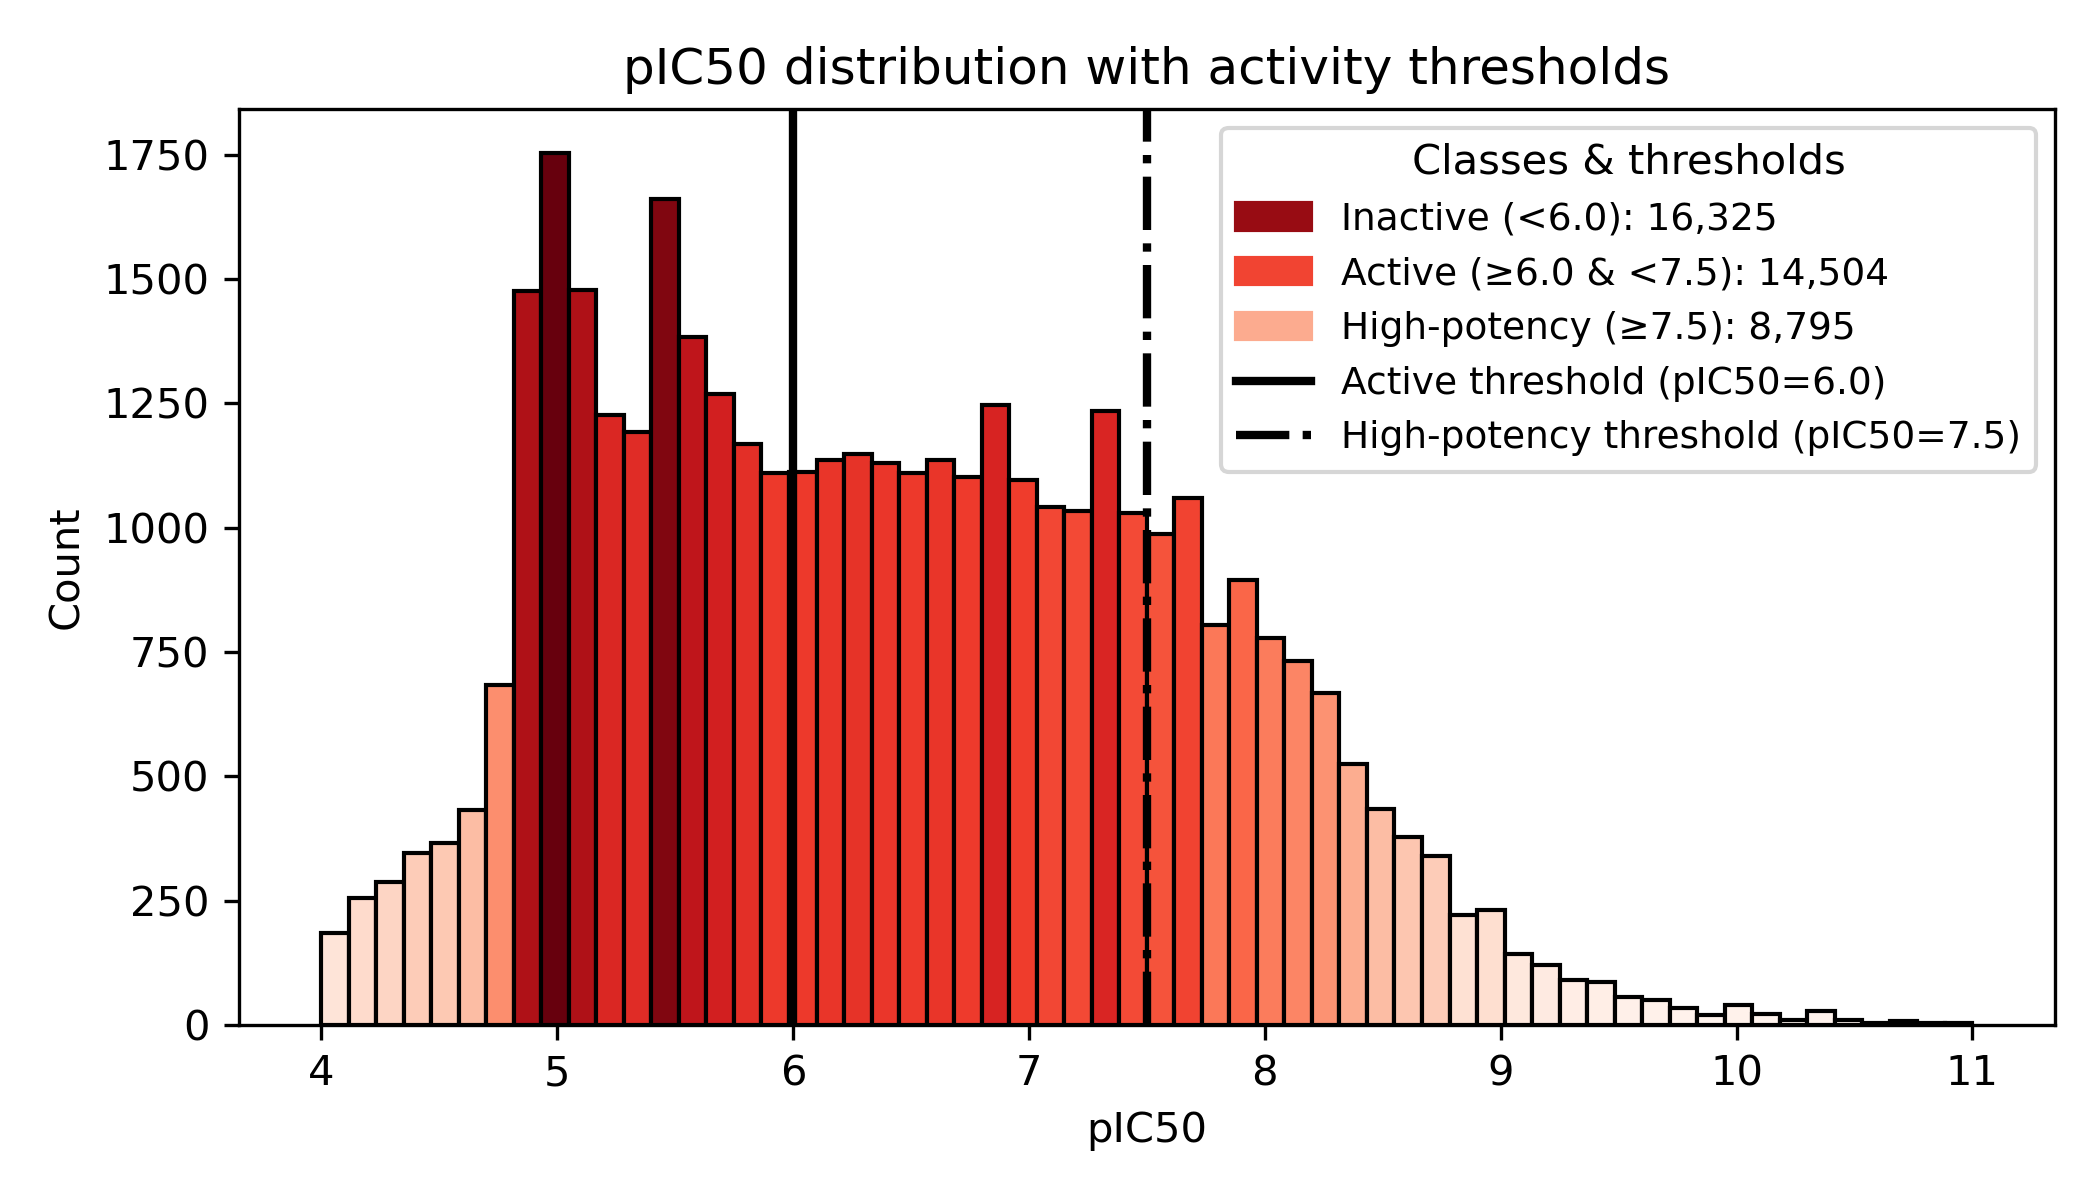
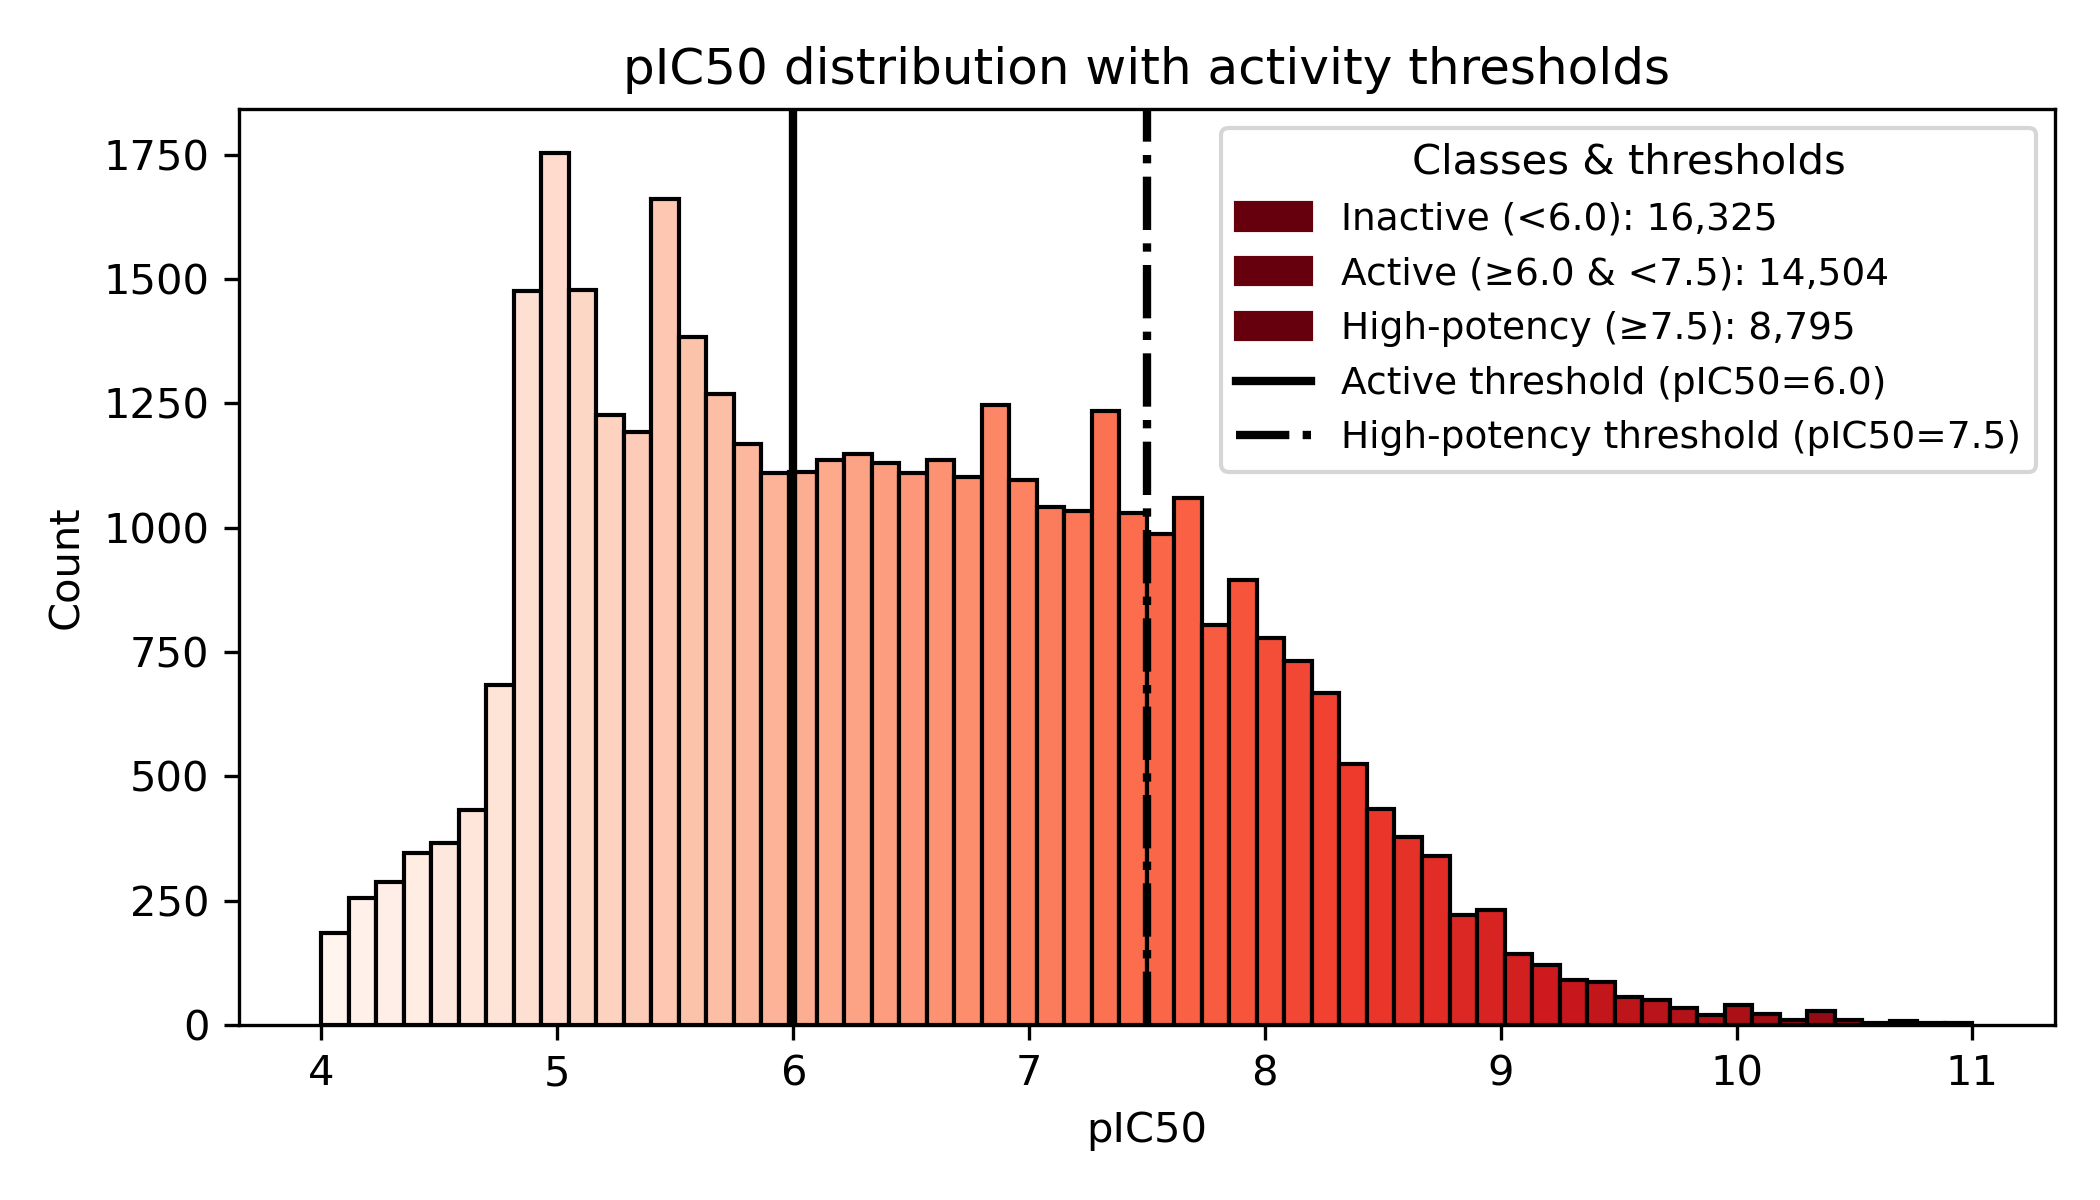
updating histograms,,, pic50 histogram, barplot

Changed region(s): [[0.1548, 0.1233, 0.8667, 0.8633], [0.5881, 0.1542, 0.65, 0.3083]]

diff --git a/p1_preprocessing/3 - Data visualizations before splits/pIC50_distribution_histogram/pic50_dist_hm.py b/p1_preprocessing/3 - Data visualizations before splits/pIC50_distribution_histogram/pic50_dist_hm.py
@@ -37,9 +37,14 @@ counts, bin_edges = np.histogram(df["pIC50"].dropna(), bins=bins)
 bin_centers = 0.5 * (bin_edges[:-1] + bin_edges[1:])
 
 # Colour Mapping
-norm = colors.Normalize(vmin=counts.min(), vmax=counts.max())
-cmap = cm.get_cmap("Reds")
-bar_colors = cmap(norm(counts))
+c_inactive = 'tab:blue'
+c_active   = 'tab:orange'
+c_high     = 'tab:green'
+
+bar_colors = np.where(
+    bin_centers < main_threshold, c_inactive,
+    np.where(bin_centers < upper_threshold, c_active, c_high)
+)
 
 # Plot
 fig, ax = plt.subplots(figsize=figsize)
@@ -51,11 +56,11 @@ lt_active = ax.axvline(main_threshold,  ls="-", lw=2.0, color="black")
 lt_high   = ax.axvline(upper_threshold, ls="-.", lw=2.0, color="black")
 
 # Legend Patches
-patch_inactive = patches.Patch(color=cmap(norm(counts.max() * 0.9)),
+patch_inactive = patches.Patch(color=c_inactive,
                                label=f"Inactive (<{main_threshold}): {inactive_count:,}")
-patch_active   = patches.Patch(color=cmap(norm(counts.max() * 0.6)),
+patch_active   = patches.Patch(color=c_active,
                                label=f"Active (≥{main_threshold} & <{upper_threshold}): {active_count:,}")
-patch_high     = patches.Patch(color=cmap(norm(counts.max() * 0.3)),
+patch_high     = patches.Patch(color=c_high,
                                label=f"High-potency (≥{upper_threshold}): {high_count:,}")
 
 # legend Lines

diff --git a/p1_preprocessing/4 - Data splitting/3 - splits_data_visualization/bar_plot_distributions/bar_plot_split_distr.py b/p1_preprocessing/4 - Data splitting/3 - splits_data_visualization/bar_plot_distributions/bar_plot_split_distr.py
@@ -37,7 +37,7 @@ DISPLAY_NAME = {
     "random": "random",
     "scaffold": "scaffold",
     "butina": "butina",
-    "umap_kmeans": "umap (kfold)",
+    "umap_kmeans": "umap (k-means)",
     "umap_ward": "umap (ward)",
 }
 DESIRED_ORDER = ["random", "scaffold", "butina", "umap_kmeans", "umap_ward"]

diff --git a/p1_preprocessing/1 - Standardising data/stage2_pt5_ic50_bounds.py b/p1_preprocessing/1 - Standardising data/stage2_pt5_ic50_bounds.py
@@ -15,7 +15,7 @@ out_path  = "./p0_all_csvs/postphase2_5.csv"
 df = pd.read_csv(in_path)
 before = len(df)                              
 
-# Define chemically plausible window for pIC50
+
 lower_bound = 4.0
 upper_bound = 11.0
 
